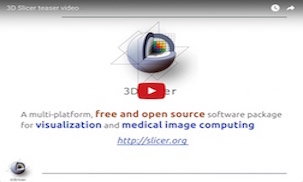
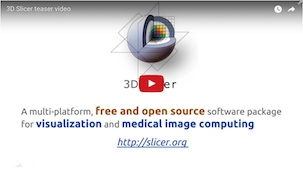
Fix image reference and image

diff --git a/pages/pages-root-folder/index.md b/pages/pages-root-folder/index.md
@@ -11,7 +11,7 @@ widget1:
   title: "Open software"
   url: 'https://github.com/QIICR'
   text: 'We are developing open source imaging informatics tools based on <a href="http://slicer.org">3D Slicer</a> to support research workflows of the <a href="http://imaging.cancer.gov/programsandresources/specializedinitiatives/qin">NCI Quantitative Imaging Network</a>.'
-  video: '<a href="#" data-reveal-id="videoModal"><img src="http://fedorov.github.io/feeling-responsive/images/slicer-youtube.jpg"  width="302" height="182" alt=""/></a>'
+  video: '<a href="#" data-reveal-id="videoModal"><img src="http://qiicr.org/images/slicer-youtube.jpg"  width="302" height="182" alt=""/></a>'
 
 widget2:
   title: "Open standards"
